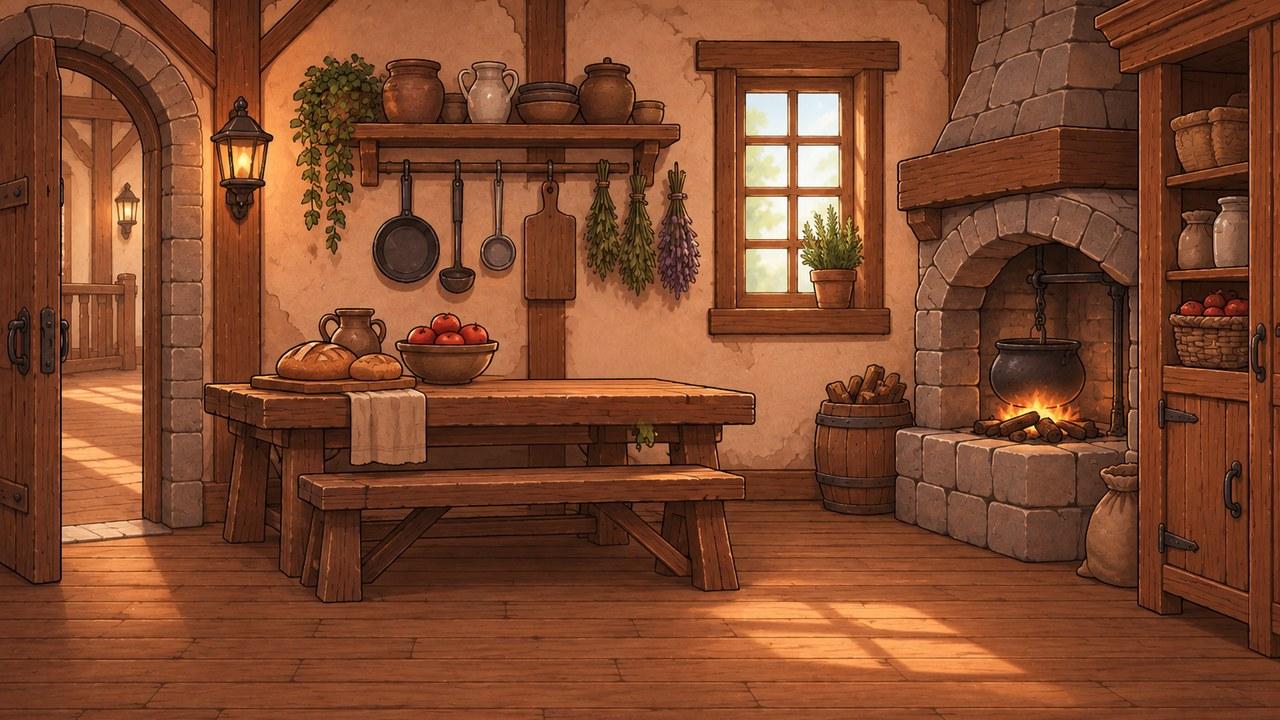
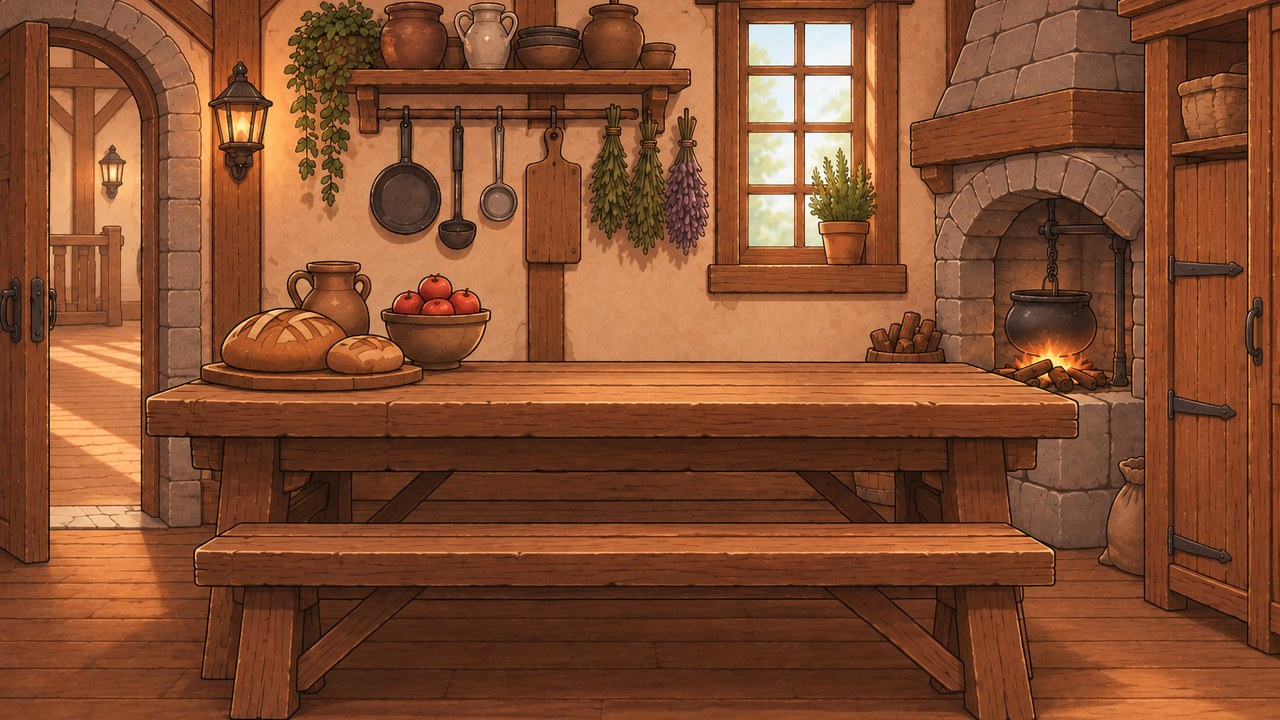
Redraw the kitchen close to the work table and Ruby behind it at real proportions
- kitchen background redrawn with the work table near the camera (table 85cm, bench 45cm)
- Ruby redrawn slicing carrots behind the table; measured 1.07x so no scale correction
- art pipeline: show_from_scene uses the scene pixels for hands and tools below the furniture line,
  so the cutting board keeps the background's top-down perspective
- new click masks and rects for the kitchen doorway, hearth and pantry
- docs: new image ids and failure log entry

Claude-Session: https://claude.ai/code/session_01WFgBYsqnPjwxzhWx9BLhU6

diff --git a/mosshill/tools/art_pipeline.py b/mosshill/tools/art_pipeline.py
@@ -294,6 +294,8 @@ def do_object(raw):
 ##   cut       이 y 아래는 가구(바·식탁·계산대) 뒤라 안 보임 (없으면 null) — 가구 윗면의 '뒤쪽' 끝.
 ##             앞쪽 모서리에서 자르면 몸이 가구 윗면을 덮어 '가구 위에 올려 놓은' 것처럼 보인다
 ##   show      cut 아래라도 보이는 곳 다각형 목록 (가구 위에 올린 손·도구) (선택)
+##   show_from_scene  true 면 show 안(cut 아래)은 단독 그림 대신 1) 장면의 픽셀을 쓴다.
+##             가구 위에 놓인 도구(도마 등)는 단독 그림에서 옆모습으로 그려져 원근이 안 맞기 때문 — 1) 은 배경과 같은 원근
 ##   hide      앞의 물건에 가려지는 곳 다각형 목록 (선택)
 ##   shadow    true 면 발밑 그림자 (바닥에 놓인 전신)
 ##   fit_cut   맞출 때 비교를 멈출 y (1) 그림에서 가구에 가려진 선이 cut 과 다를 때, 기본은 cut)
@@ -396,8 +398,9 @@ def look_from_busy(busy, look):
     return out
 
 
-def place_char(char, k, ox, oy, pl, color):
+def place_char(char, k, ox, oy, pl, color, scene=None, sil=None):
     """큰 인물 그림 → 화면 크기 레이어 (줄이기, 방 색감, 발밑 그림자, 가려지는 곳 잘라내기)"""
+    from_scene = pl.get("show_from_scene") and scene is not None
     x0, y0, x1, y1 = char.getchannel("A").point(lambda v: 255 if v > 16 else 0).getbbox()
     small = char.resize((round(char.width * k), round(char.height * k)), Image.LANCZOS)
     layer = Image.new("RGBA", SCREEN, (0, 0, 0, 0))
@@ -416,11 +419,21 @@ def place_char(char, k, ox, oy, pl, color):
     dr = ImageDraw.Draw(keep)
     if pl.get("cut") is not None:
         dr.rectangle((0, pl["cut"], SCREEN[0], SCREEN[1]), fill=0)
-    for poly in pl.get("show", []):                 # cut 아래라도 보이는 곳 (식탁 위에 올린 손 등)
+    for poly in ([] if from_scene else pl.get("show", [])):     # cut 아래라도 보이는 곳 (식탁 위에 올린 손 등)
         dr.polygon([tuple(p) for p in poly], fill=255)
     for poly in pl.get("hide", []):
         dr.polygon([tuple(p) for p in poly], fill=0)
     layer.putalpha(ImageChops.multiply(layer.getchannel("A"), keep))
+    if from_scene:                                  # cut 아래 show 안은 1) 장면의 인물·도구 픽셀 (배경과 같은 원근)
+        area = Image.new("L", SCREEN, 0)
+        da = ImageDraw.Draw(area)
+        for poly in pl.get("show", []):
+            da.polygon([tuple(p) for p in poly], fill=255)
+        da.rectangle((0, 0, SCREEN[0], pl["cut"] - 1), fill=0)
+        m = ImageChops.multiply(area, Image.fromarray((sil * 255).astype(np.uint8)))
+        piece = scene.convert("RGBA")
+        piece.putalpha(m.filter(ImageFilter.GaussianBlur(0.6)))
+        layer.alpha_composite(piece)
     full = Image.new("RGBA", SCREEN, (0, 0, 0, 0))
     if pl.get("shadow"):
         fx, fy, w = ox + (x0 + x1) / 2 * k, oy + y1 * k, (x1 - x0) * k * 0.75
@@ -457,7 +470,7 @@ def do_scene(raw):
                 k, ox, oy = k * sc, ax - (ax - ox) * sc, ay - (ay - oy) * sc
             px = np.asarray(ref).astype(np.float32)[sil]
             color = (px.mean(axis=0), px.std(axis=0))
-            layers = {st: place_char(pose[st], k, ox, oy, pl, color) for st in SCENE_STATES}
+            layers = {st: place_char(pose[st], k, ox, oy, pl, color, ref, sil) for st in SCENE_STATES}
             for st, layer in layers.items():
                 rgb = layer.convert("RGB")
                 for tod, img in (("day", rgb), ("night", night_filter(rgb))):
